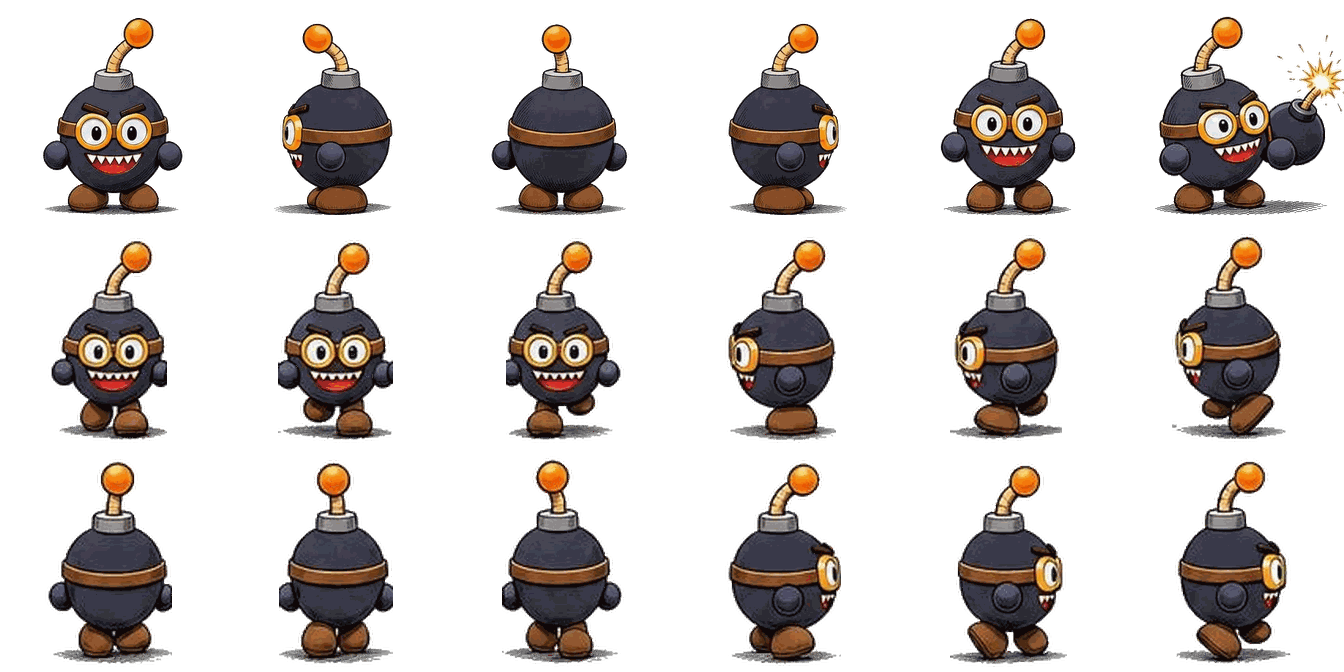
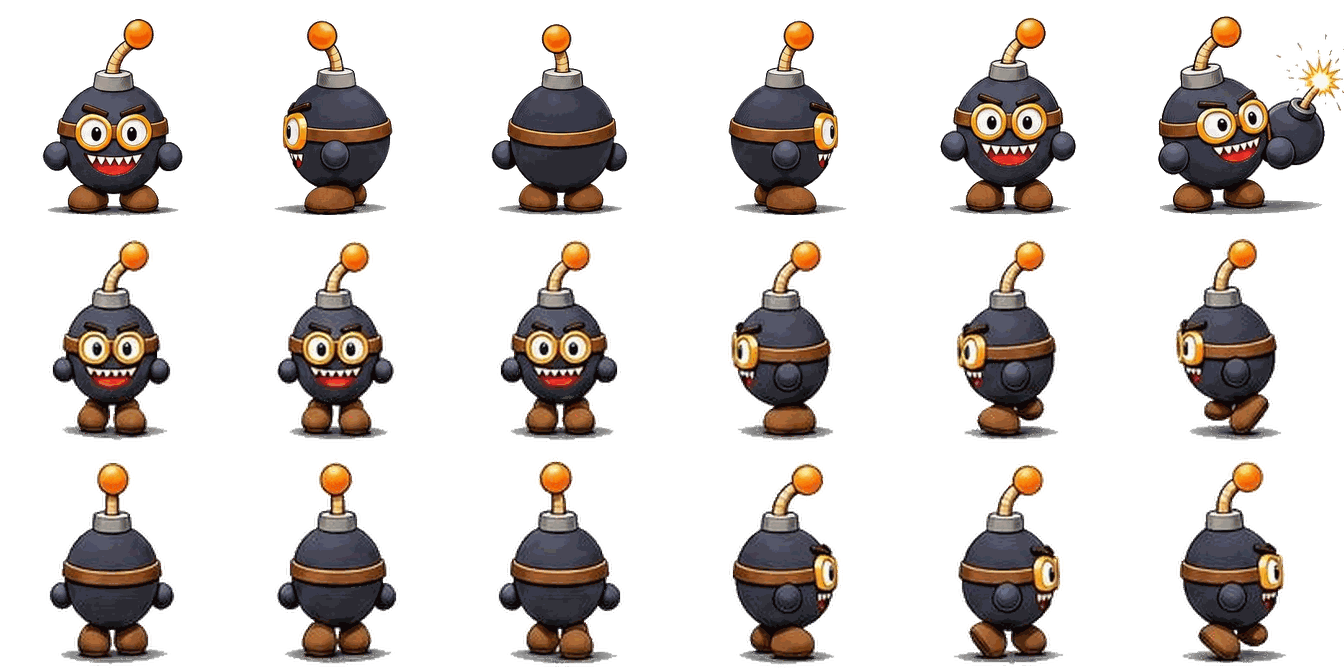
Défi 2 : planche corrigée de Kaboum et planche « en colère » utilisée pendant sa rage
Claude-Session: https://claude.ai/code/session_01JYZA5iE9PycqaXua4PGqJu

diff --git a/jeu.html b/jeu.html
@@ -5297,7 +5297,8 @@ function drawNpcs(c, t) {
     const name = S.blow ? 'castF' : S.arm > 0.15 ? (side ? 'castS' : 'castF') : S.moving ? (S.look4 || 'down') + (1 + (Math.floor(S.phase || 0) % 3)) : 'down0';
     const feet = y + T * 0.62;
     c.fillStyle = 'rgba(0,0,0,.25)'; ell(c, x, feet - 4, T * 0.42, T * 0.13); c.fill();
-    bossFrame(c, name, x + jx, feet + jy, T * 1.45, { rage: rg ? rg * 0.5 : 0, flip: name === 'castS' && lx < 0, swell: S.blow ? swell : 0 }, KAB_IMG);
+    const angry = (rg > 0) && sheetReady(KAB_RAGE);   // en rage : la planche « en colère » du joueur (sinon, teinte rouge)
+    bossFrame(c, name, x + jx, feet + jy, T * 1.45, { rage: rg && !angry ? rg * 0.5 : 0, flip: name === 'castS' && lx < 0, swell: S.blow ? swell : 0 }, angry ? KAB_RAGE : KAB_IMG);
   } else drawKaboum(c, x, y, T * 0.62, { rage: rg, t, arm: S.arm, look: S.look, feet: true, swell, shake: S.blow ? 2 + S.blow * 4 : npcRage() ? 1.5 : 0 });
   if (S.blow && Math.sin(t * (20 + S.blow * 30)) > 0) { c.save(); c.globalAlpha = 0.45; c.fillStyle = '#fff'; c.beginPath(); c.arc(x, y, T * 0.62 * swell, 0, TAU); c.fill(); c.restore(); }
 }
@@ -5309,7 +5310,7 @@ function drawNpcs(c, t) {
 // corps de 196 px de haut. Images : immobile ×4 directions, sort de face, sort de profil, puis 3 images de marche par direction.
 const SHEET_FR = ['down0', 'left0', 'up0', 'right0', 'castF', 'castS', 'down1', 'down2', 'down3', 'left1', 'left2', 'left3', 'up1', 'up2', 'up3', 'right1', 'right2', 'right3'];
 function loadSheet(src) { const im = new Image(); im.onload = () => { if (!document.getElementById('camp').hidden) renderCamp(); }; im.src = src; return im; }
-const BOSS_IMG = loadSheet('assets/boss-grondor.png'), KAB_IMG = loadSheet('assets/npc-kaboum.png');
+const BOSS_IMG = loadSheet('assets/boss-grondor.png'), KAB_IMG = loadSheet('assets/npc-kaboum.png'), KAB_RAGE = loadSheet('assets/npc-kaboum-rage.png');   // Kaboum en colère : planche à part
 const sheetReady = im => im.complete && im.naturalWidth > 0, bossReady = () => sheetReady(BOSS_IMG);
 const bossTint = document.createElement('canvas'); bossTint.width = bossTint.height = 224;
 function bossFrame(c, name, x, feetY, h, o, img) {
